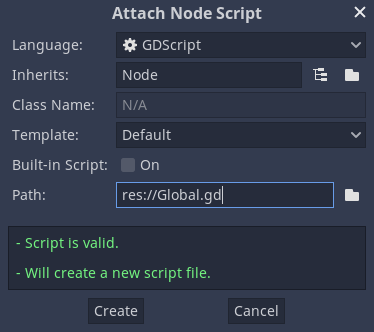
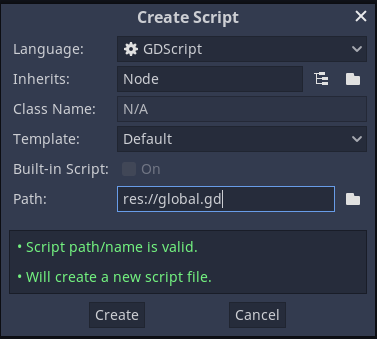
Convert script names to snake case
Resize pictures

Convert *.tscn names to snake case

diff --git a/tutorials/scripting/singletons_autoload.rst b/tutorials/scripting/singletons_autoload.rst
@@ -122,15 +122,15 @@ complex behavior when changing scenes, this method provides more functionality.
 To begin, download the template from here:
 :download:`autoload.zip <files/autoload.zip>` and open it in Godot.
 
-The project contains two scenes: ``Scene1.tscn`` and ``Scene2.tscn``. Each
+The project contains two scenes: ``scene1.tscn`` and ``scene2.tscn``. Each
 scene contains a label displaying the scene name and a button with its
 ``pressed()`` signal connected. When you run the project, it starts in
-``Scene1.tscn``. However, pressing the button does nothing.
+``scene1.tscn``. However, pressing the button does nothing.
 
-Global.gd
+global.gd
 ~~~~~~~~~
 
-Switch to the **Script** tab and create a new script called ``Global.gd``.
+Switch to the **Script** tab and create a new script called ``global.gd``.
 Make sure it inherits from ``Node``:
 
 .. image:: img/autoload_script.png
@@ -138,7 +138,7 @@ Make sure it inherits from ``Node``:
 The next step is to add this script to the autoLoad list. Open
 **Project > Project Settings** from the menu, switch to the **AutoLoad** tab and
 select the script by clicking the browse button or typing its path:
-``res://Global.gd``. Press **Add** to add it to the autoload list:
+``res://global.gd``. Press **Add** to add it to the autoload list:
 
 .. image:: img/autoload_tutorial1.png
 
@@ -146,7 +146,7 @@ Now whenever we run any scene in the project, this script will always be loaded.
 
 Returning to the script, it needs to fetch the current scene in the
 `_ready()` function. Both the current scene (the one with the button) and
-``Global.gd`` are children of root, but autoloaded nodes are always first. This
+``global.gd`` are children of root, but autoloaded nodes are always first. This
 means that the last child of root is always the loaded scene.
 
 .. tabs::
@@ -255,10 +255,10 @@ Finally, we need to fill the empty callback functions in the two scenes:
 .. tabs::
  .. code-tab:: gdscript GDScript
 
-    # Add to 'Scene1.gd'.
+    # Add to 'scene1.gd'.
 
     func _on_Button_pressed():
-        Global.goto_scene("res://Scene2.tscn")
+        Global.goto_scene("res://scene2.tscn")
 
  .. code-tab:: csharp
 
@@ -267,7 +267,7 @@ Finally, we need to fill the empty callback functions in the two scenes:
     public void OnButtonPressed()
     {
         var global = GetNode<Global>("/root/Global");
-        global.GotoScene("res://Scene2.tscn");
+        global.GotoScene("res://scene2.tscn");
     }
 
 and
@@ -275,19 +275,19 @@ and
 .. tabs::
  .. code-tab:: gdscript GDScript
 
-    # Add to 'Scene2.gd'.
+    # Add to 'scene2.gd'.
 
     func _on_Button_pressed():
-        Global.goto_scene("res://Scene1.tscn")
+        Global.goto_scene("res://scene1.tscn")
 
  .. code-tab:: csharp
 
-    // Add to 'Scene2.cs'.
+    // Add to 'scene2.cs'.
 
     public void OnButtonPressed()
     {
         var global = GetNode<Global>("/root/Global");
-        global.GotoScene("res://Scene1.tscn");
+        global.GotoScene("res://scene1.tscn");
     }
 
 Run the project and test that you can switch between scenes by pressing
